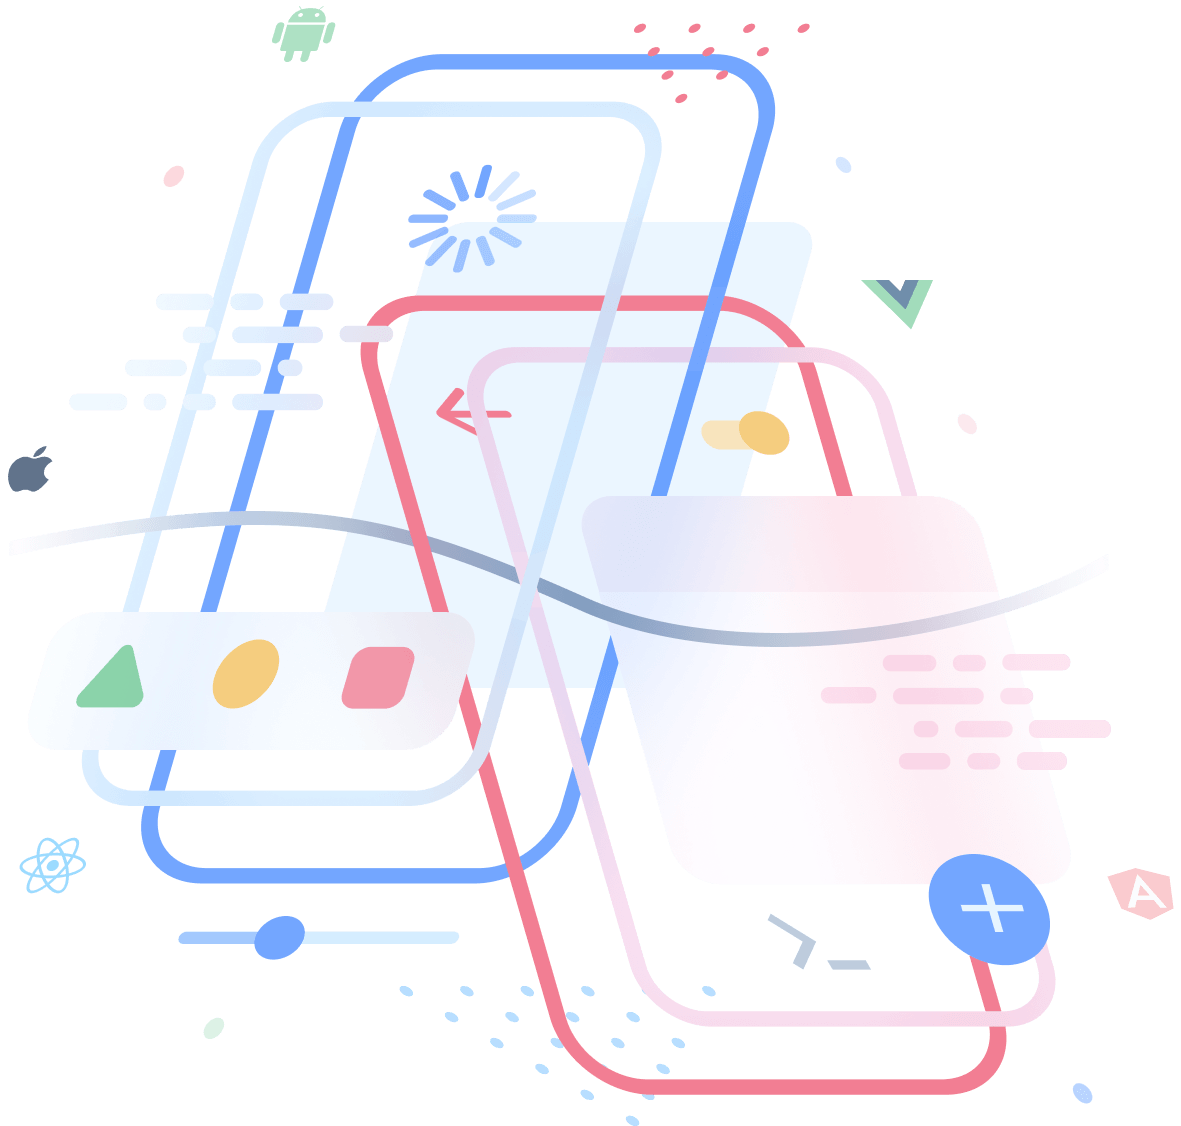
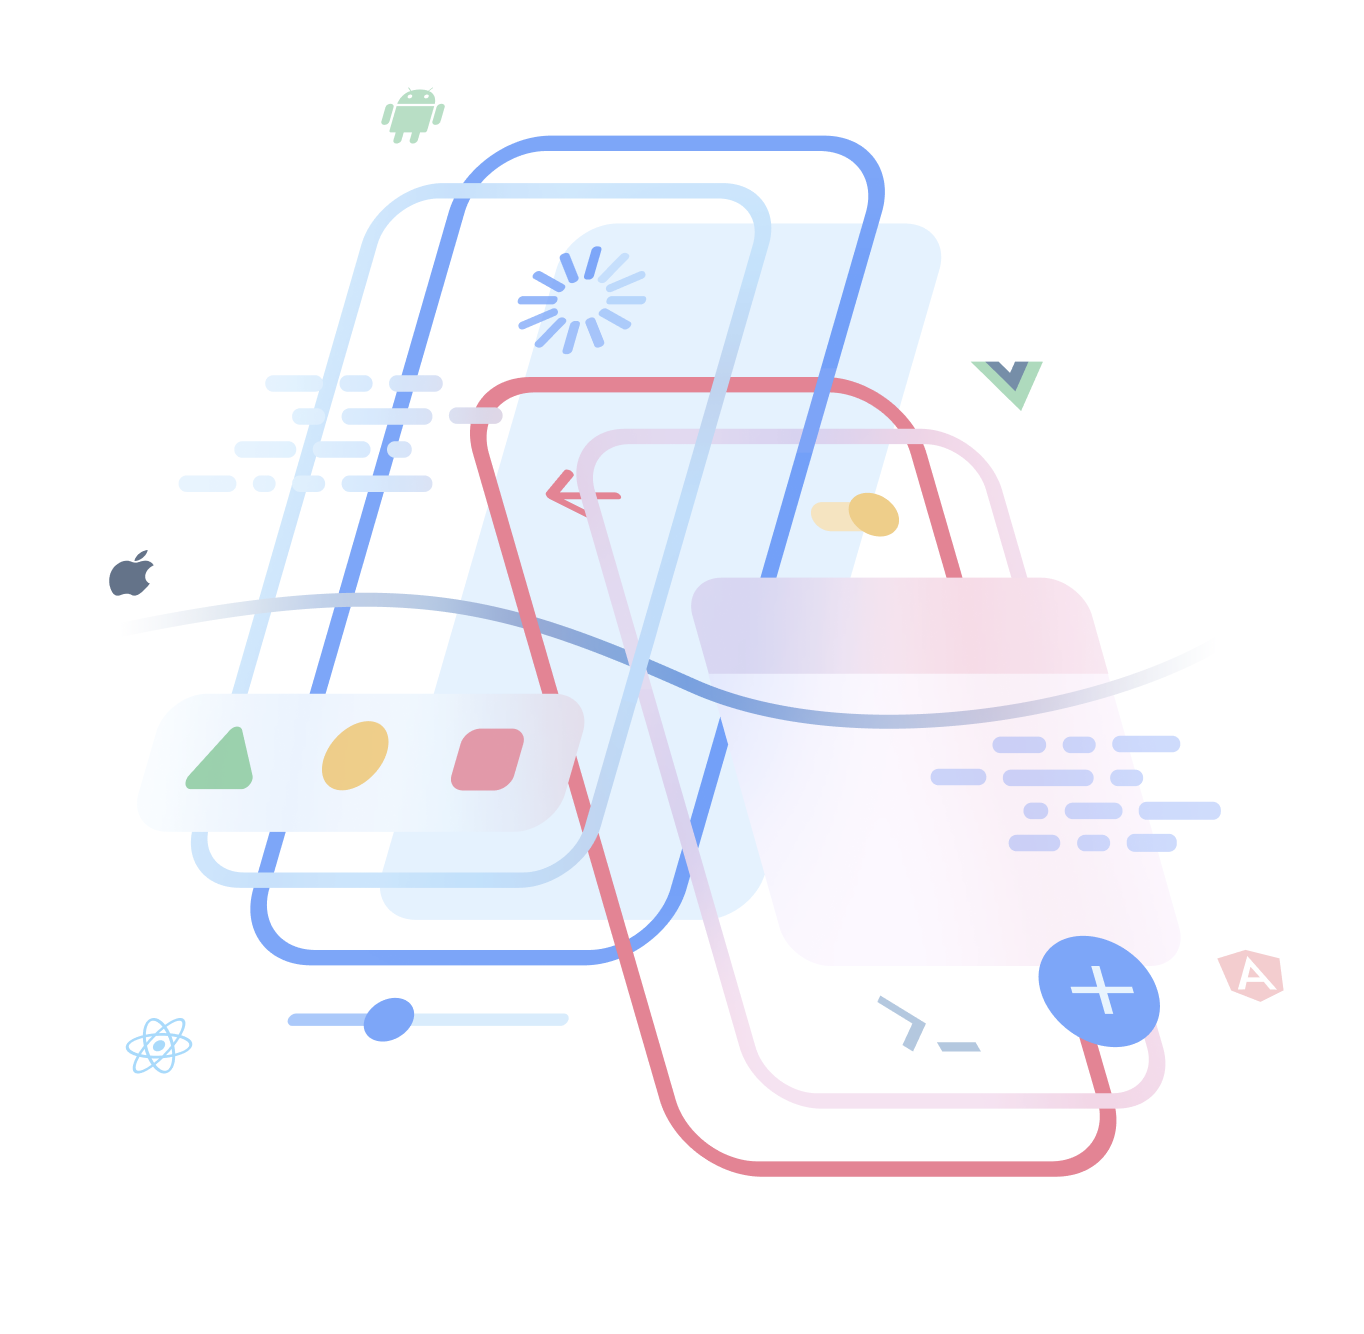
homepage tweaks

diff --git a/assets/scss/pages/home.scss b/assets/scss/pages/home.scss
@@ -8,6 +8,17 @@
   min-height: 860px;
   position: relative;
 
+  &::before {
+    position: absolute;
+    border-bottom: 1px solid rgba(0, 26, 60, 0.1);
+    content: '';
+    display: block;
+    width: 100vw;
+    left: 0;
+    bottom: 28px;
+    z-index: 1;
+  }
+
   [slot="slide-0"] {
     display: block;
   }
@@ -347,15 +358,7 @@
     background: white;
     position: relative;
     min-height: 840px;
-
-    // &::before {
-    //   position: absolute;
-    //   content: '';
-    //   display: block;
-    //   width: 1vw;
-    //   left: 1vw;
-    //   right: 1vw;
-    // }
+    border-bottom: none;
 
     .notification {
       display: inline-block;
@@ -562,6 +565,7 @@
 }
 
 #page-home {
+
   section {
     padding-top: 170px;
     line-height: 1.75em;

diff --git a/server/pages/index.html b/server/pages/index.html
@@ -30,7 +30,7 @@
         </small>
       </p>
     </hgroup>
-    <img src="/img/homepage/hero-img.png?1" class="graphic" />
+    <img src="/img/homepage/hero-img.png?2" class="graphic" />
     <aside>
       <ul class="stats">
         <li class="stars">
